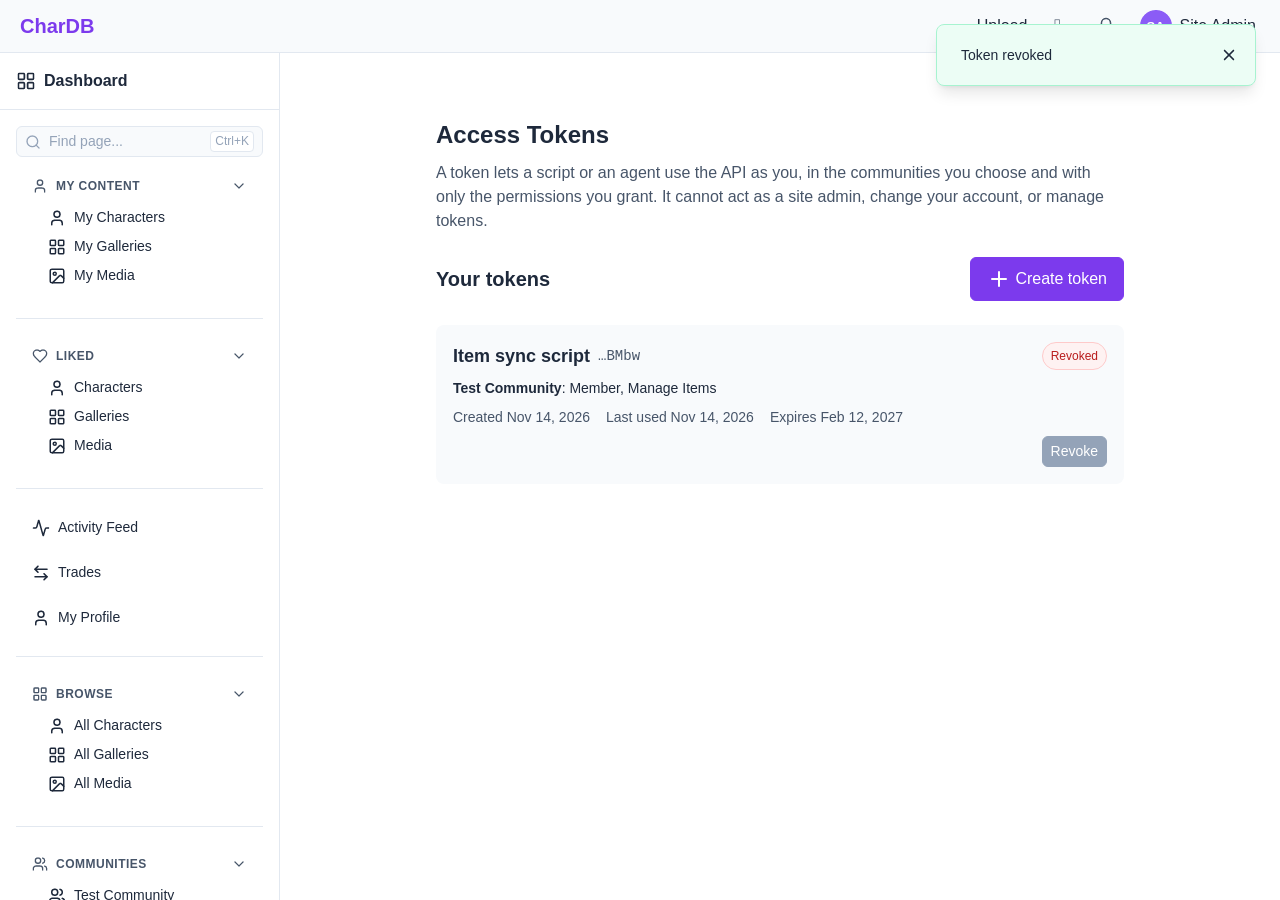
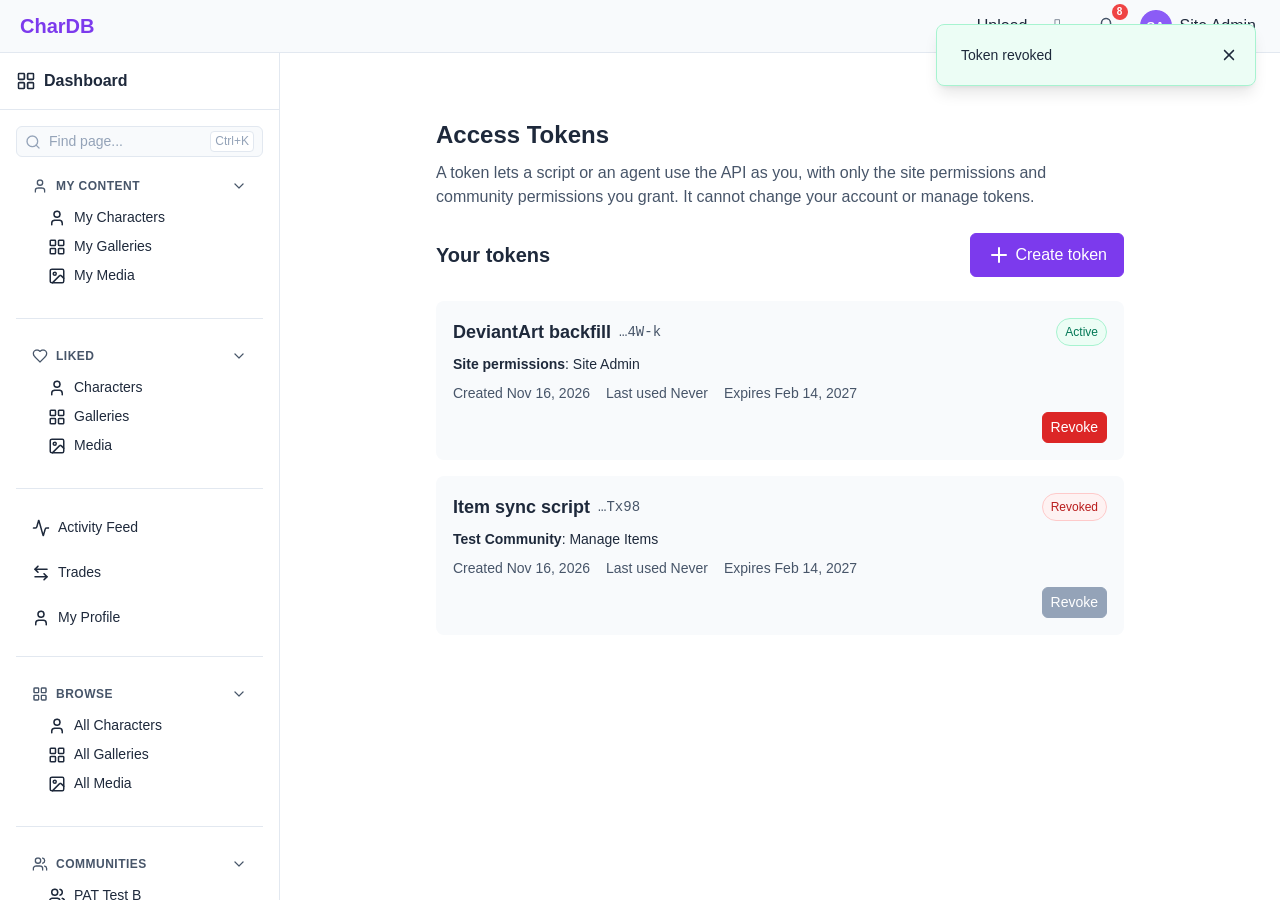
docs(access-tokens): site permissions walkthrough and page copy

diff --git a/docs/docs/access-tokens.html b/docs/docs/access-tokens.html
@@ -205,13 +205,15 @@
             A script that syncs item types, or an agent that tidies a
             community's characters, needs to call the API as someone. Handing it
             a site admin's session would let it do anything on the site. An
-            access token acts as you, but only in the communities you add to it
-            and only with the permissions you check there.
+            access token acts as you, but only with the site permissions you
+            check and in the communities you add, with the permissions you check
+            there.
           </p>
           <ul>
             <li>Only site admins can make tokens.</li>
             <li>
-              A token holds no site-admin power, whatever its owner holds.
+              A token holds a site permission only if it was granted one and its
+              owner still holds it.
             </li>
             <li>
               It cannot change its owner's profile or credentials, sign in or
@@ -244,9 +246,17 @@
         <div class="step-content">
           <p>
             Name it after what will use it, pick how long it lasts (7, 30, 90 or
-            365 days), then add each community it may act in. Every community
+            365 days), then check its site permissions and add each community it
+            may act in. A token needs at least one of either. Every community
             added gets its own checklist, all unchecked. Each permission is the
             same permission a role can hold.
+          </p>
+          <p>
+            <strong>Site permissions</strong> lists the site-wide permissions
+            you hold, all unchecked. <strong>Site Admin</strong> lets the token
+            do anything a site admin can in every community, such as reading
+            linked accounts or running a backfill. It still cannot make, list or
+            revoke tokens.
           </p>
           <p>
             <strong>Member</strong> lets it through anything open to the
@@ -259,17 +269,27 @@
         <div class="screenshot">
           <img
             src="access-tokens-create.png"
-            alt="The create-token dialog: a name, a 90-day expiry, Test Community added, with only Manage Items checked."
+            alt="The create-token dialog: a name, a 90-day expiry, no site permissions checked, and Test Community added with only Manage Items checked."
           />
           <div class="screenshot-caption">
             A token for one community that may manage item types there and
             nothing more.
           </div>
         </div>
+        <div class="screenshot">
+          <img
+            src="access-tokens-site.png"
+            alt="The create-token dialog with Site Admin checked under Site permissions and no community added."
+          />
+          <div class="screenshot-caption">
+            A token for a backfill script: Site Admin and no community.
+          </div>
+        </div>
         <div class="step-content" style="margin-top: 1.5rem">
           <div class="highlight-box">
             <strong>What it can do is fixed when it is made.</strong> To change
-            a token's communities or permissions, revoke it and make another.
+            a token's site permissions, communities or permissions, revoke it
+            and make another.
           </div>
         </div>
       </div>
@@ -335,7 +355,9 @@ curl https://api.chardb.cc/graphql \
           </p>
           <p>
             Removing someone's site admin status revokes all of their tokens at
-            once. Making them an admin again brings none back.
+            once. Making them an admin again brings none back. Removing any
+            other site permission only stops their tokens using it, until they
+            hold it again.
           </p>
         </div>
         <div class="screenshot">
@@ -357,7 +379,7 @@ curl https://api.chardb.cc/graphql \
         <div class="screenshot phone">
           <img
             src="access-tokens-phone.png"
-            alt="The access tokens page on a phone, with one active token."
+            alt="The access tokens page on a phone, with two active tokens: one holding Site Admin, one for Test Community."
           />
           <div class="screenshot-caption">The same page on a phone.</div>
         </div>
@@ -384,6 +406,7 @@ $ yarn chardb whoami
 token  Bank import (…x7Qa), expires 2026-12-15
 user   siteadmin
 api    https://api.chardb.cc/graphql (prod)
+site   isAdmin
 
 cloverse  Cloverse  canGrantItems</pre
           >

diff --git a/apps/backend/src/auth/PermissionService.ts b/apps/backend/src/auth/PermissionService.ts
@@ -123,13 +123,17 @@ interface ReadGrant {
 }
 
 /**
- * Global permissions a token may hold. Never `canGrantGlobalPermissions`: a
- * script hands out nothing site-wide.
+ * Global permissions a token may hold, in the order they are offered. Never
+ * `canGrantGlobalPermissions`: a script hands out nothing site-wide. A
+ * permission added to `GlobalPermission` is no token's until listed here.
  */
-export const GRANTABLE_GLOBAL_PERMISSIONS: readonly GlobalPermission[] =
-  Object.values(GlobalPermission).filter(
-    (permission) => permission !== GlobalPermission.CanGrantGlobalPermissions,
-  );
+export const GRANTABLE_GLOBAL_PERMISSIONS: readonly GlobalPermission[] = [
+  GlobalPermission.IsAdmin,
+  GlobalPermission.CanCreateCommunity,
+  GlobalPermission.CanListUsers,
+  GlobalPermission.CanListInviteCodes,
+  GlobalPermission.CanCreateInviteCode,
+];
 
 const grantableGlobalPermissions = new Set<string>(
   GRANTABLE_GLOBAL_PERMISSIONS,

diff --git a/apps/frontend/src/pages/AccessTokensPage.tsx b/apps/frontend/src/pages/AccessTokensPage.tsx
@@ -52,9 +52,9 @@ export const AccessTokensPage: React.FC = () => {
       <Stack gap="sm">
         <h1 className={styles.title}>Access Tokens</h1>
         <p className={styles.intro}>
-          A token lets a script or an agent use the API as you, in the
-          communities you choose and with only the permissions you grant. It
-          cannot act as a site admin, change your account, or manage tokens.
+          A token lets a script or an agent use the API as you, with only the
+          site permissions and community permissions you grant. It cannot change
+          your account or manage tokens.
         </p>
       </Stack>
 

diff --git a/apps/backend/src/auth/personal-access-tokens/personal-access-tokens.e2e.spec.ts b/apps/backend/src/auth/personal-access-tokens/personal-access-tokens.e2e.spec.ts
@@ -293,7 +293,7 @@ describe("personal access tokens (e2e)", () => {
 
         expect(
           response.body.data.personalAccessTokenGrantOptions.globalPermissions,
-        ).toEqual(["canListUsers", "isAdmin"]);
+        ).toEqual(["isAdmin", "canListUsers"]);
       } finally {
         await db.user.update({
           where: { id: adminId },
